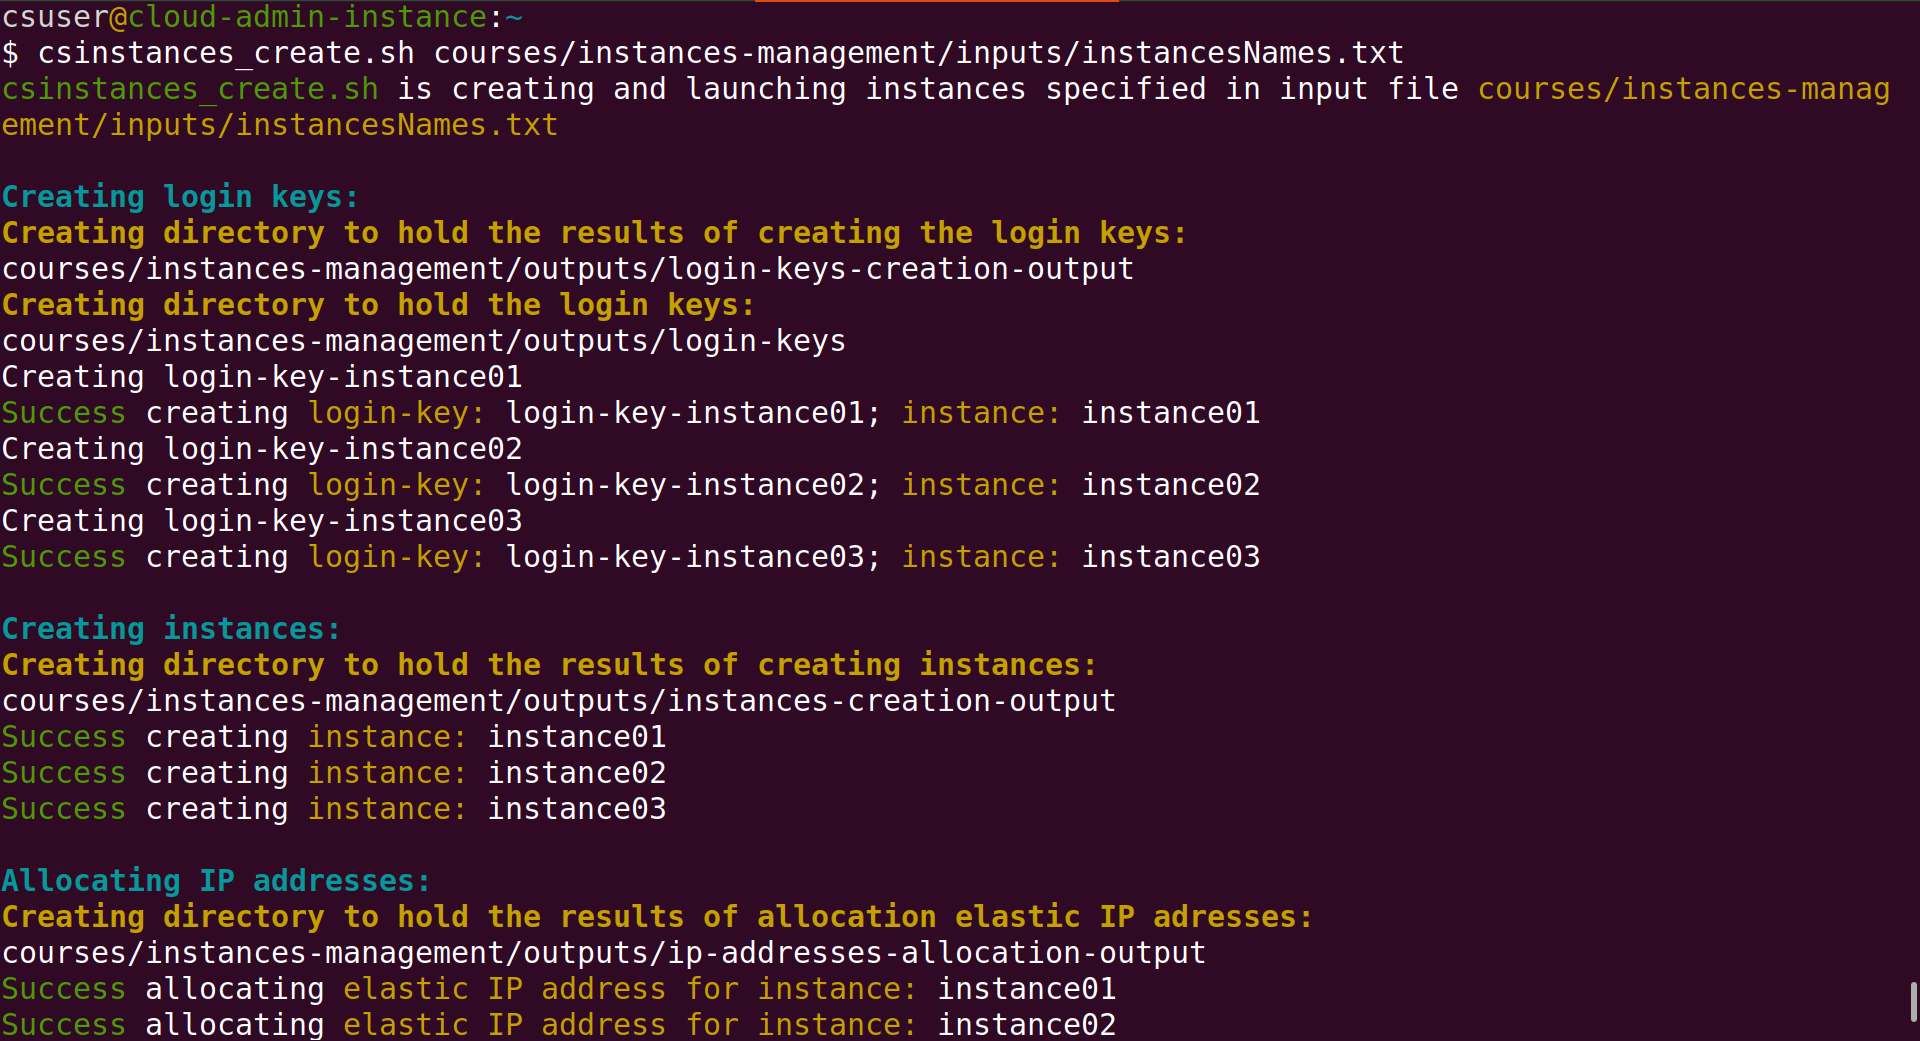
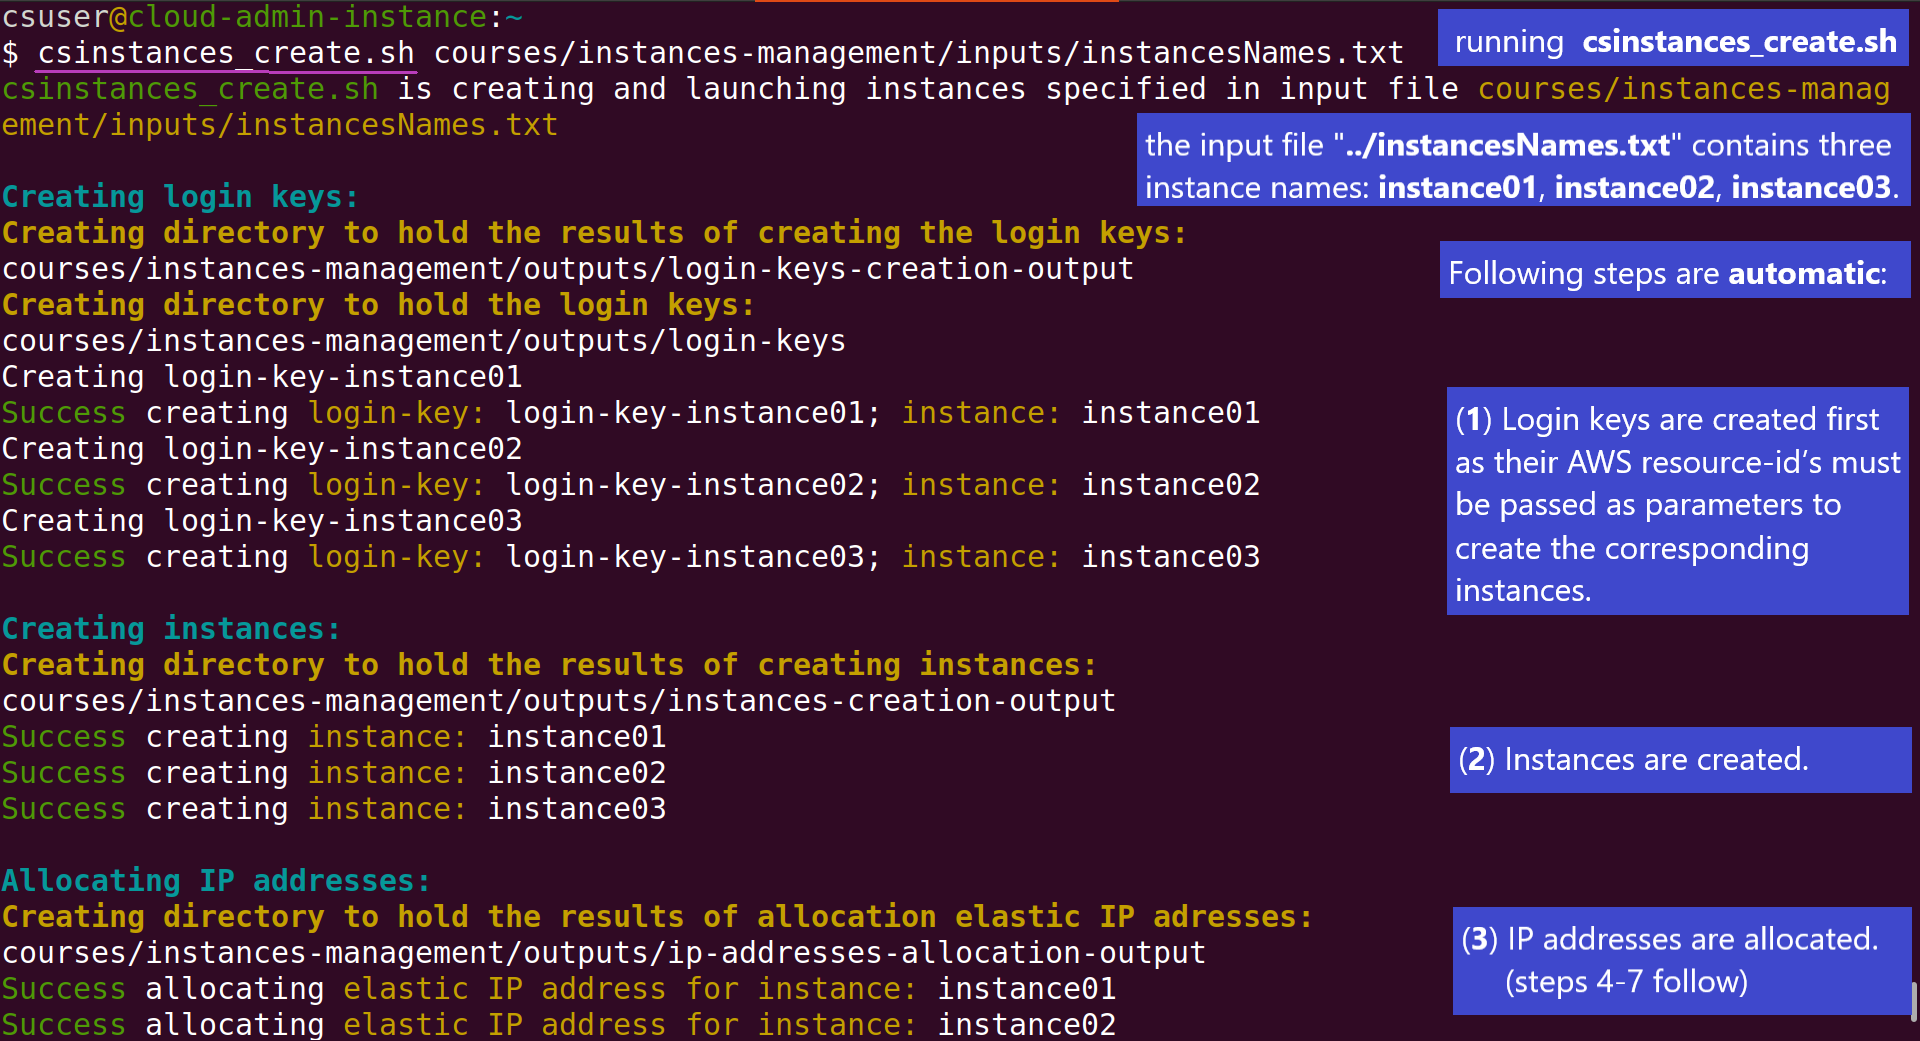
Add Emma's suggestions - possibly ready to submit

diff --git a/paper-jose/paper.md b/paper-jose/paper.md
@@ -10,8 +10,10 @@ authors:
     orcid: 0009-0003-1751-653X
     affiliation: 1             # "1, 2" # (Multiple affiliations must be quoted)
   - name: Emma Rand
+    orcid: 0000-0002-1358-8275
     affiliation: 1
   - name: James Chong
+    orcid: 0000-0001-9447-7421
     affiliation: 1
 affiliations:
  - name: Biology Department, University of York
@@ -26,25 +28,25 @@ bibliography: paper.bib
 
 # Summary
 
-We present a set of Bash scripts that automatically manage Amazon Web Services ([AWS](https://aws.amazon.com/)) instances which are Linux virtual machines. We use the scripts to manage multiple instances for training. Instances are created before a workshop with ‘omics data and software analysis tools required for the workshop. Each student is granted exclusive access to an instance through the use of an encrypted login key with the ``ssh`` program:
+We present a set of Bash scripts that make it quick and easy to manage [AWS](https://aws.amazon.com/) instances for training delivery. We use the scripts to automate the creation of instances (which are Linux virtual machines) for genomics and metagenomics workshops. Instances are created before a workshop with ‘omics data and software analysis tools required for the workshop. Each student is granted exclusive access to an instance through the use of an encrypted login key with the ``ssh`` program:
 
 ```  
    ssh -i login-key-instance01.pem  csuser@instance01.cloud-span.aws.york.ac.uk
 ```
 
-Running the scripts requires only the path of the file that contains the names of the instances to create, stop, start or delete — login keys, IP addresses and domain names used by the instances are created or deleted automatically, see the screenshot below. Creating over 30 instances takes 10-15 minutes. 
+Running the scripts requires only the path of the file that contains the names of the instances to create, stop, start or delete — login keys, IP addresses and domain names used by the instances are created or deleted automatically, see the screenshot below which shows the script `csinstance_create.sh` being run in a Linux *terminal* to create three instances whose names are specfied in the inputs file `courses/instances-management/inputs/instancesNames.txt`.  Creating over 30 instances takes 10-15 minutes. 
 
-![Output of running the script **csinstances_create.sh** — first part. The input file (path) "**courses/instances-management/inputs/instancesNames.txt**" contains three instances names: **instance01**, **instance02**, **instance03**. Login keys are created first as their AWS resource-id’s must be passed as parameters to create the corresponding instances, which are created second. IP addresses are then allocated. The last part of the output (not shown) corresponds to: creating the instance domain names as mapped to the relevant IP addresses, associating IP addresses to instances, accessing each instance with **ssh** as shown above but with the **ubuntu** user (AWS default) to configure the csuser to being accessed with the same login key, and accessing each instance with the csuser (as above) to validate such configuration was successful. Running the script **csinstances_delete.sh** with the same input file will delete those instances and related login keys, IP addresses, and domain names from the AWS account.](fig01-csinstances_create-output-first-part.png)
+![Output of running the script **csinstances_create.sh** — first part. The output last part (not shown) includes these steps: (**4**) creating the instance domain names as mapped to the relevant IP addresses, (**5**) associating IP addresses to instances, (**6**) accessing each instance with **ssh** as shown above but with the **ubuntu** user (AWS default) to configure the csuser as to being accessed with the same login key, and (**7**) accessing each instance with the csuser (as above) to validate such configuration was successful. Running the script **csinstances_delete.sh** with the same input file will delete those instances and related login keys, IP addresses, and domain names from the AWS account.](fig01-csinstances_create-output-first-part.png)
 
 # Statement of need
-Using cloud resources for training is rather efficient and most convenient as there is no need to buy nor manage hardware resources.  Typically, a Linux instance is configured with the required data and software tools and then replicated so that each student can be provided with an individual, real training environment — and instances can be scaled according to the storage and compute requirements of a workshop material. Once a workshop is finished the replicated instances are deleted to stop incurring any further cost.
+Genomics and metagenomics typically require analyzing gigabyte to terabyte sized data sets with packages that have multiple dependencies. This creates a steep learning curve that can be off putting for biologists. 'Omics training can be made more accessible if participants do not need to manage complex software installation or large datasets by following the Data Carpentries approach to using cloud resources to provide each participant with a properly configured AWS instance.
 
-On the other hand, starting using cloud resources is not trivial for the many technologies involved, and **managing multiple** instances through a graphical user interface (GUI), such as the AWS Console, **is cumbersome** and **error-prone**. 
+However, managing multiple instances through a graphical user interface (GUI), such as the AWS Console, is cumbersome and error-prone especially as the number of participants increases. Our scripts automate the creation and deletion of AWS instances and related resources to access them: login keys, IP addresses and domain names. 
 
-One of the goals of the [Cloud-SPAN](https://cloud-span.york.ac.uk/) project was to facilitate the use of cloud resources for training as outlined above. The scripts [@buenabad22] and the accompanying online course [Automated Management of AWS Instances](https://cloud-span.github.io/cloud-admin-guide-0-overview/) [@buenabad23] (introduced below) are the outcome of this goal.
+The scripts are supported by an accompanying online course: [Automated Management of AWS Instances](https://cloud-span.github.io/cloud-admin-guide-0-overview/) [@buenabad23].
 
 # The scripts 
-The scripts are shown below. The scripts "`csinstances_*.sh`" are to be run by the user of the scripts, the person in charge of managing instances for workshops. 
+The scripts are listed below. The scripts "`csinstances_*.sh`" are to be run by the user of the scripts, the person in charge of managing instances for workshops. 
 
 ```
 aws_domainNames_create.sh        aws_instances_configure.sh  csinstances_create.sh
@@ -73,7 +75,7 @@ How to configure and use the scripts is described in detail in the online course
 
 - how to configure a *terminal* environment with the scripts and the AWS CLI — in Linux, Mac, Windows (Git Bash), or the AWS CloudShell.
 
-- how to configure and run the scripts, manage late registrations and cancellations, and some troubleshooting.
+- how to configure and run the scripts to manage instances for a workshop, manage late registrations and cancellations, and some troubleshooting.
 
 - how to create and manage Amazon Machine Images (AMIs) which serve as templates to create AWS instances.
 
@@ -105,10 +107,12 @@ courses                       ### you can omit this directory or use other name
 # Conclusions
 Using the scripts is rather easy and most convenient once the scripts environment has been configured. We have saved a lot of time in managing the instances for our workshops for over a year. Most of the time we only need to configure the file "*instancesNames.txt*" with the names of the instances to manage for a workshop. The file **tags.txt** has to be configured only once and we copy it to manage instances for other workshops. Similary, the file **resourcesIDs.txt** needs to be configured only once for workshops that use a different instance type (t3.small, t3.medium, etc.) or a different AMI template. We handle only two `resourcesIDs.txt` files, one for our genomics workshops and the other for our metagenomics workshops. They differ on both the instance type and the AMI template id, but are the same in all other entries: subnet-id, base domatin name, etc.  
 
-While configuring the scripts environment is somewhat involved, it has to be made only once and the online course covers all the details. It should take 2 to 4 hours depending on experience to cover the course along with configuring the scripts environment. 
+Configuring the scripts environment is somewhat involved but it has to be made only once and the online course covers all the details. It should take 2 to 4 hours depending on experience to cover the course along with configuring the scripts environment. 
+
+We used the scripts to support delivery of 'omics training, but the scripts will work equally well for Linux instances configured for other purposes.
 
 # Acknowledgements
 
-We acknowledge contributions from ...
+We acknowledge funding from the UKRI innovation scholars award, project reference: MR/V038680/1 and the Natural Environment Research Council, project reference: NE/X006999/1.
 
 # References
